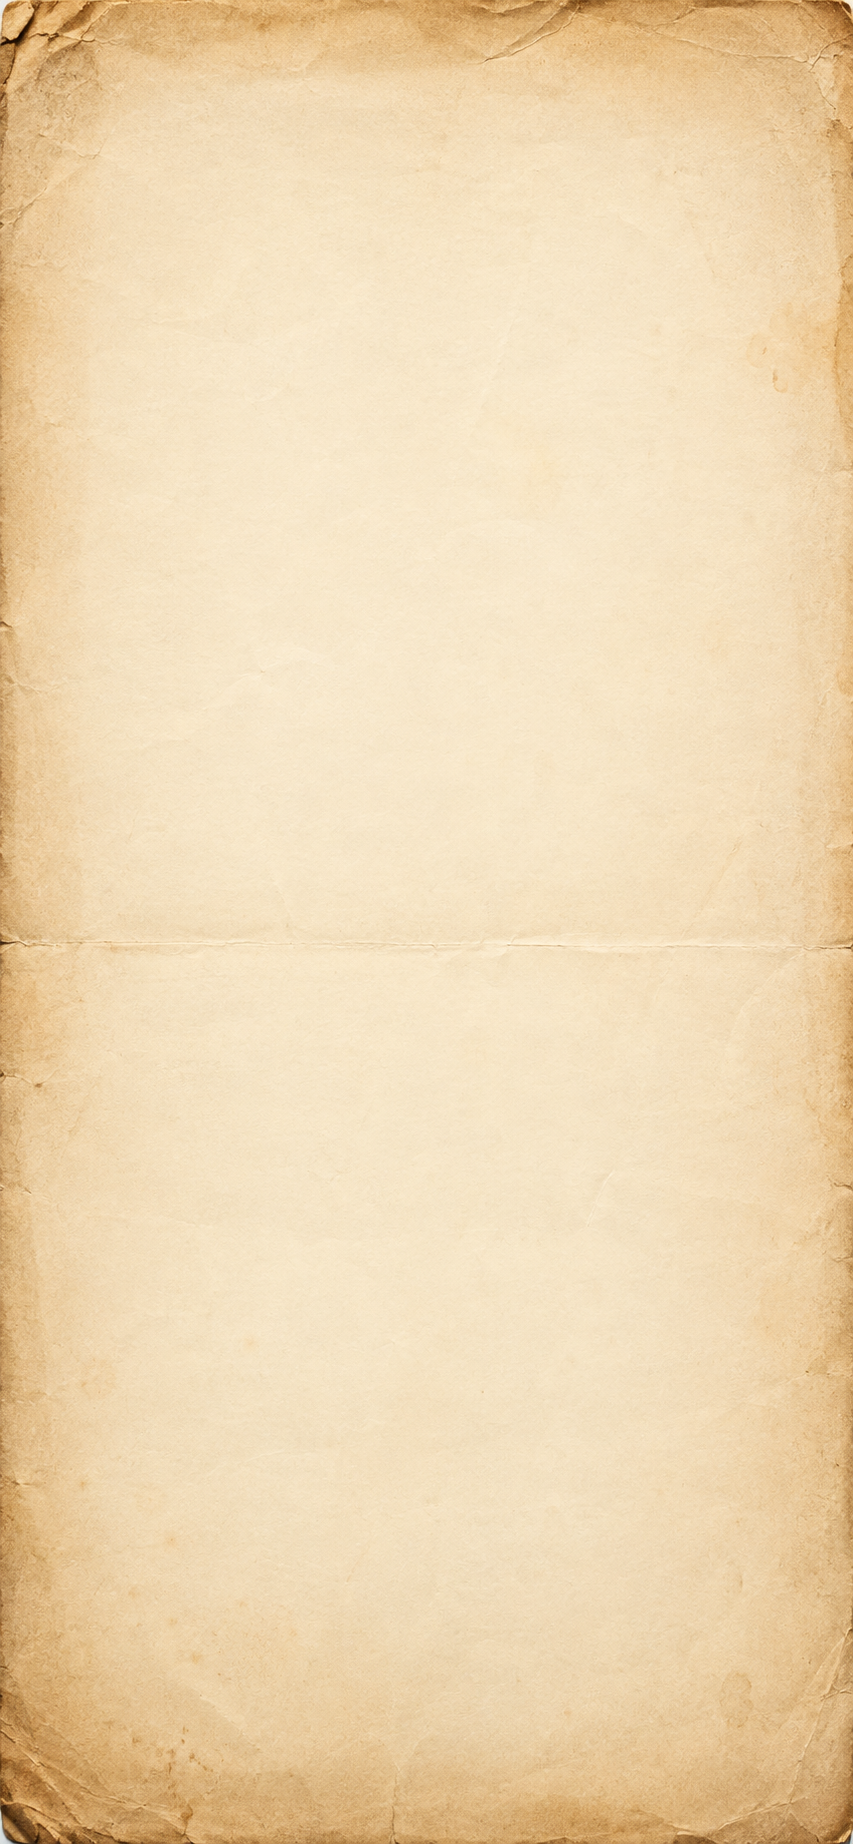
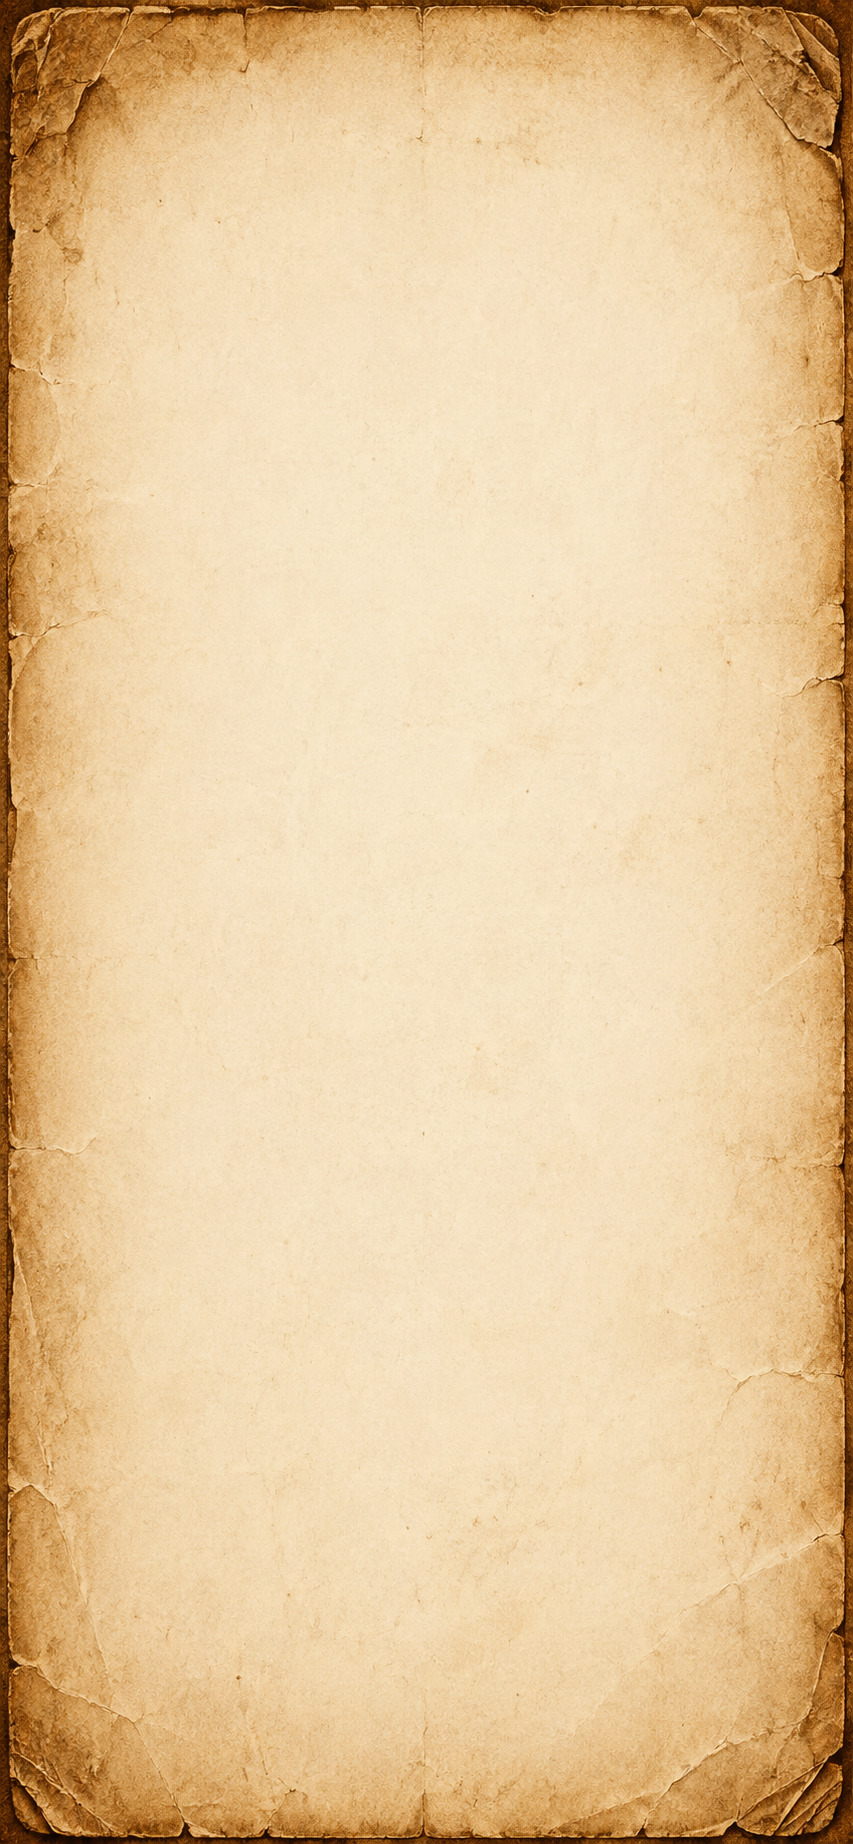
Polish letter reading and hug exit for a quieter finish.
Tighten letter margins and type, hide hug-invite back controls, and restyle the hug home link as subtle brown text.

Changed region(s): [[0.0, 0.0, 1.0, 1.0], [0.5791, 0.8037, 0.6096, 0.8346], [0.5487, 0.8346, 0.5791, 0.8655]]

diff --git a/src/components/LetterPage.jsx b/src/components/LetterPage.jsx
@@ -1,4 +1,4 @@
-import { useState } from 'react';
+import { useEffect, useState } from 'react';
 import styles from '../styles/LetterPage.module.css';
 
 const PAPER = '/assets/letter/hoja_carta.png';
@@ -9,6 +9,7 @@ export default function LetterPage({
   letter,
   greeting,
   onOpenHug,
+  onHugScreenChange,
 }) {
   const {
     paperImage = PAPER,
@@ -27,6 +28,11 @@ export default function LetterPage({
   const paragraphs = page?.paragraphs || [];
   const isFirstLetterPage = pageIndex === 0;
   const isLastLetterPage = pageIndex === totalLetterPages - 1;
+
+  useEffect(() => {
+    onHugScreenChange?.(isHugPage);
+    return () => onHugScreenChange?.(false);
+  }, [isHugPage, onHugScreenChange]);
 
   const goPrev = () => setPageIndex((i) => Math.max(0, i - 1));
   const goNext = () => setPageIndex((i) => Math.min(totalSteps - 1, i + 1));
@@ -90,27 +96,27 @@ export default function LetterPage({
         </div>
       )}
 
-      <nav
-        className={`${styles.navRow} ${isHugPage ? styles.navRowHug : ''}`}
-        aria-label="Páginas de la carta"
-      >
-        <button
-          type="button"
-          className={styles.navArrow}
-          onClick={goPrev}
-          disabled={pageIndex === 0}
-          aria-label="Página anterior"
+      {!isHugPage && (
+        <nav
+          className={styles.navRow}
+          aria-label="Páginas de la carta"
         >
-          <svg viewBox="0 0 24 24" fill="none" stroke="currentColor" strokeWidth="1.7">
-            <path d="M15 6 9 12l6 6" strokeLinecap="round" strokeLinejoin="round" />
-          </svg>
-        </button>
+          <button
+            type="button"
+            className={styles.navArrow}
+            onClick={goPrev}
+            disabled={pageIndex === 0}
+            aria-label="Página anterior"
+          >
+            <svg viewBox="0 0 24 24" fill="none" stroke="currentColor" strokeWidth="1.7">
+              <path d="M15 6 9 12l6 6" strokeLinecap="round" strokeLinejoin="round" />
+            </svg>
+          </button>
 
-        <span className={styles.pageMark}>
-          {pageIndex + 1} / {totalSteps}
-        </span>
+          <span className={styles.pageMark}>
+            {pageIndex + 1} / {totalSteps}
+          </span>
 
-        {!isHugPage ? (
           <button
             type="button"
             className={styles.navArrow}
@@ -121,10 +127,8 @@ export default function LetterPage({
               <path d="M9 6l6 6-6 6" strokeLinecap="round" strokeLinejoin="round" />
             </svg>
           </button>
-        ) : (
-          <span className={styles.navSpacer} aria-hidden="true" />
-        )}
-      </nav>
+        </nav>
+      )}
     </div>
   );
 }

diff --git a/src/styles/HugCard.module.css b/src/styles/HugCard.module.css
@@ -31,7 +31,7 @@
   user-select: none;
   -webkit-user-drag: none;
   transform-origin: center center;
-  animation: hugPopupSpin 0.85s cubic-bezier(0.22, 1.15, 0.36, 1) both;
+  animation: hugPopupSpin 1.25s cubic-bezier(0.18, 1.2, 0.32, 1) both;
 }
 
 .homeButton {
@@ -41,20 +41,22 @@
   transform: translateX(-50%);
   z-index: 40;
   font-family: var(--font-letter);
-  font-size: 1.15rem;
-  color: #2a1f1a;
-  background: rgba(255, 248, 235, 0.92);
-  border: 1.5px solid rgba(80, 50, 20, 0.22);
-  border-radius: 999px;
-  padding: 0.65rem 1.45rem;
-  box-shadow: 0 6px 18px rgba(0, 0, 0, 0.28);
+  font-size: 1.05rem;
+  color: #fff8eb;
+  background: transparent;
+  border: none;
+  border-radius: 0;
+  padding: 0.35rem 0.5rem;
+  box-shadow: none;
   cursor: pointer;
   touch-action: manipulation;
-  transition: transform 0.15s ease, background 0.15s ease;
+  text-shadow: 0 1px 3px rgba(0, 0, 0, 0.55);
 }
 
 .homeButton:active {
-  transform: translateX(-50%) scale(0.97);
+  transform: translateX(-50%);
+  color: #ffffff;
+  opacity: 0.92;
 }
 
 .homeButton:focus {
@@ -62,21 +64,24 @@
 }
 
 .homeButton:focus-visible {
-  outline: 2px solid rgba(255, 248, 235, 0.9);
-  outline-offset: 3px;
+  outline: 1px solid rgba(255, 248, 235, 0.45);
+  outline-offset: 4px;
 }
 
 @keyframes hugPopupSpin {
   0% {
     opacity: 0;
-    transform: scale(0.12) rotate(-200deg);
+    transform: scale(0.06) rotate(-320deg);
   }
-  55% {
+  45% {
     opacity: 1;
-    transform: scale(1.06) rotate(12deg);
+    transform: scale(1.18) rotate(18deg);
   }
-  78% {
-    transform: scale(0.97) rotate(-4deg);
+  68% {
+    transform: scale(0.92) rotate(-10deg);
+  }
+  84% {
+    transform: scale(1.06) rotate(5deg);
   }
   100% {
     opacity: 1;

diff --git a/src/styles/LetterPage.module.css b/src/styles/LetterPage.module.css
@@ -53,30 +53,30 @@
   position: relative;
   z-index: 1;
   height: 100%;
-  padding: clamp(2.8rem, 8vw, 3.4rem) clamp(1.15rem, 5vw, 1.7rem) clamp(3rem, 8vw, 3.6rem);
+  padding: clamp(4.2rem, 12vw, 5.2rem) clamp(1.75rem, 8vw, 2.4rem) clamp(4.4rem, 12vw, 5.4rem);
   display: flex;
   flex-direction: column;
-  gap: 0.8rem;
+  gap: 0.65rem;
   overflow: hidden;
 }
 
 .greeting {
   font-family: var(--font-letter);
-  font-size: clamp(1.25rem, 4.8vw, 1.5rem);
+  font-size: 12px;
   font-weight: 600;
   color: #2c2a26;
-  line-height: 1.3;
+  line-height: 1.35;
 }
 
 .section {
   display: flex;
   flex-direction: column;
-  gap: 0.7rem;
+  gap: 0.55rem;
 }
 
 .paragraph {
   font-family: var(--font-letter);
-  font-size: clamp(1.08rem, 4.2vw, 1.28rem);
+  font-size: 11px;
   line-height: 1.55;
   color: #2c2a26;
   user-select: text;
@@ -84,14 +84,14 @@
 
 .closing {
   font-family: var(--font-letter);
-  font-size: clamp(1.15rem, 4.4vw, 1.35rem);
+  font-size: 12px;
   color: #2c2a26;
   margin-top: auto;
 }
 
 .signature {
   display: block;
-  width: clamp(88px, 28vw, 120px);
+  width: clamp(108px, 34vw, 148px);
   height: auto;
   object-fit: contain;
   align-self: center;

diff --git a/src/components/EnvelopeExperience.jsx b/src/components/EnvelopeExperience.jsx
@@ -31,6 +31,7 @@ function BackButton({ onClick }) {
 
 export default function EnvelopeExperience({ letter, onBack, onOpenHug }) {
   const [step, setStep] = useState(STEPS.LETTER_OUT);
+  const [onHugInvite, setOnHugInvite] = useState(false);
   const openingImage = letter.envelope?.letterImage || LETTER_OUT_IMAGE;
   const envelopeName = letter.envelopeName || letter.name;
   const isReading = step === STEPS.READING;
@@ -52,7 +53,7 @@ export default function EnvelopeExperience({ letter, onBack, onOpenHug }) {
         </>
       )}
 
-      <BackButton onClick={onBack} />
+      {!onHugInvite && <BackButton onClick={onBack} />}
 
       <div className={`${styles.envelopeContent} ${isReading ? styles.panelReading : ''}`}>
         {step === STEPS.LETTER_OUT && (
@@ -106,6 +107,7 @@ export default function EnvelopeExperience({ letter, onBack, onOpenHug }) {
               letter={letter.letter}
               greeting={letter.greeting}
               onOpenHug={onOpenHug}
+              onHugScreenChange={setOnHugInvite}
             />
           </div>
         )}
